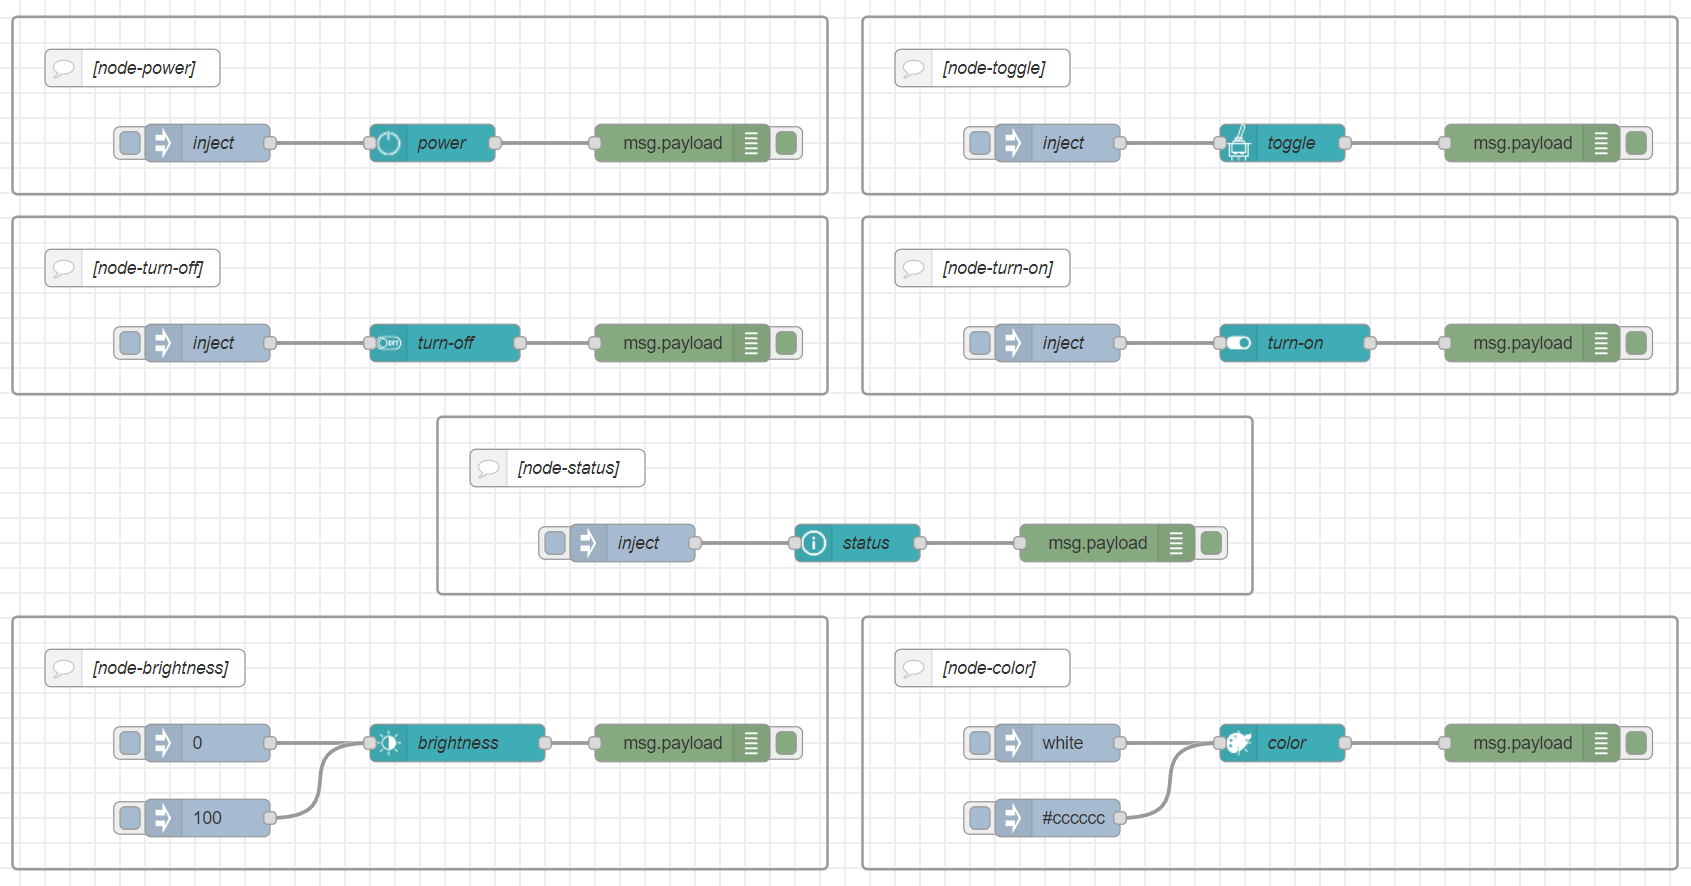
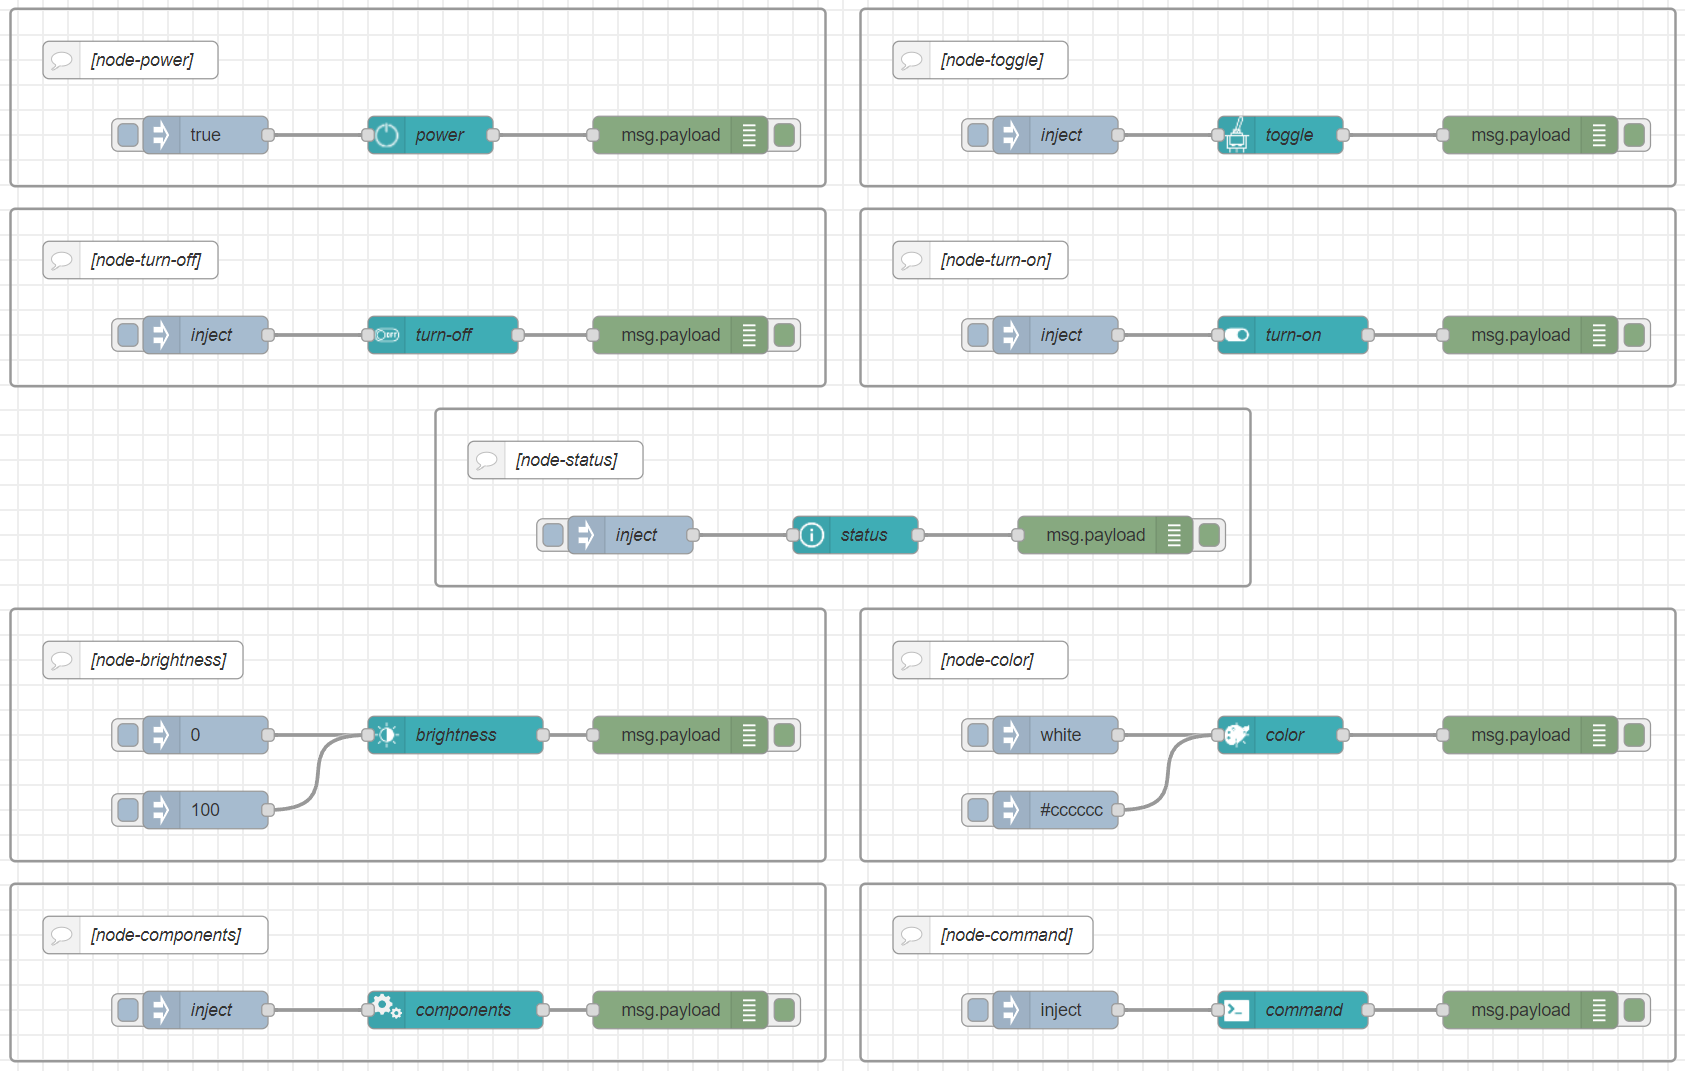
Add files via upload

Changed region(s): [[0.0, 0.0, 1.0, 1.0], [0.0, 0.6095, 0.1543, 0.64]]

diff --git a/src/nodes/tapo_klap_protocol.ts b/src/nodes/tapo_klap_protocol.ts
@@ -980,7 +980,7 @@ export class KlapProtocol extends TapoProtocol {
                 }
             })
             .catch((error: TapoError) => {
-                throw new TapoError("Handshake1 error -" + error.message, error, ErrorCode.ERROR_aPH1_bSP_HSK_ERROR, this.perform_handshake1.name)
+                throw new TapoError("Handshake1 error - " + error.message, error, ErrorCode.ERROR_aPH1_bSP_HSK_ERROR, this.perform_handshake1.name)
             });
         return seeds;
     }
@@ -1399,7 +1399,7 @@ export class PassthroughProtocol extends TapoProtocol {
                 }
             })
             .catch((error: TapoError) => {
-                throw new TapoError("Login error - " + error.message, error, ErrorCode.ERROR_aLG_bPH_HSK_ERROR, this._login_with_version.name)
+                throw new TapoError("Handshake error - " + error.message, error, ErrorCode.ERROR_aLG_bPH_HSK_ERROR, this._login_with_version.name)
             });
         return session;
     }

diff --git a/nodes/tapo_actions.html b/nodes/tapo_actions.html
@@ -26,7 +26,7 @@
             "toggle": "icon-toggle.png",
             "color": "icon-colour.png",
             "brightness": "icon-brightness.png",
-            "components": "fa-solid fa-gears",
+            "components": "icon-components.png",
             "command": "icon-command.png",
         }
         const conf = {
@@ -286,10 +286,6 @@
             <dt class="optional">errorInf <span class="property-type">object</span></dt>
             <dd> Error object with the following properties:</dd>
             <dd>   <code>{error_code: code of error, message: error description, agent: internal function failing, cause: root cause, track: tree of errors}</code></dd>
-        </dl>
-        <dl class="message-properties">
-            <dt class="optional">device <span class="property-type">object</span></dt>
-            <dd> Device handler created / used in the node. Usefull to link with another node connected to same device.</dd>
         </dl>
     </dl>
 

diff --git a/src/nodes/tapo_actions.html b/src/nodes/tapo_actions.html
@@ -26,7 +26,7 @@
             "toggle": "icon-toggle.png",
             "color": "icon-colour.png",
             "brightness": "icon-brightness.png",
-            "components": "fa-solid fa-gears",
+            "components": "icon-components.png",
             "command": "icon-command.png",
         }
         const conf = {
@@ -286,10 +286,6 @@
             <dt class="optional">errorInf <span class="property-type">object</span></dt>
             <dd> Error object with the following properties:</dd>
             <dd>   <code>{error_code: code of error, message: error description, agent: internal function failing, cause: root cause, track: tree of errors}</code></dd>
-        </dl>
-        <dl class="message-properties">
-            <dt class="optional">device <span class="property-type">object</span></dt>
-            <dd> Device handler created / used in the node. Usefull to link with another node connected to same device.</dd>
         </dl>
     </dl>
 

diff --git a/nodes/tapo_klap_protocol.js b/nodes/tapo_klap_protocol.js
@@ -844,7 +844,7 @@ class KlapProtocol extends TapoProtocol {
             }
         })
             .catch((error) => {
-            throw new TapoError("Handshake1 error -" + error.message, error, ErrorCode.ERROR_aPH1_bSP_HSK_ERROR, this.perform_handshake1.name);
+            throw new TapoError("Handshake1 error - " + error.message, error, ErrorCode.ERROR_aPH1_bSP_HSK_ERROR, this.perform_handshake1.name);
         });
         return seeds;
     }
@@ -1208,7 +1208,7 @@ class PassthroughProtocol extends TapoProtocol {
             }
         })
             .catch((error) => {
-            throw new TapoError("Login error - " + error.message, error, ErrorCode.ERROR_aLG_bPH_HSK_ERROR, this._login_with_version.name);
+            throw new TapoError("Handshake error - " + error.message, error, ErrorCode.ERROR_aLG_bPH_HSK_ERROR, this._login_with_version.name);
         });
         return session;
     }

diff --git a/nodes/tapo_actions.js b/nodes/tapo_actions.js
@@ -304,10 +304,11 @@ const nodeInit = (RED) => {
                 else {
                     // Check verbose to remove track
                     if (!config.verbose) {
-                        if (typeof (msg.payload.errorInf["track"]) != 'undefined')
-                            delete msg.payload.errorInf["track"];
+                        //    if (typeof(msg.payload.errorInf["track"]) != 'undefined') delete msg.payload.errorInf["track"];
+                        if (typeof (ret.errorInf["cause"]) != 'undefined')
+                            msg.payload.errorInf = ret.errorInf["cause"];
                     }
-                    node.status({ fill: "red", shape: "ring", text: msg.payload.errorInf.message });
+                    node.status({ fill: "red", shape: "ring", text: msg.payload.errorInf.message.split("-")[0] });
                 }
             }
             catch (error) {

diff --git a/src/nodes/tapo_actions.ts b/src/nodes/tapo_actions.ts
@@ -376,9 +376,10 @@ const nodeInit: NodeInitializer = (RED): void => {
                              
                     // Check verbose to remove track
                     if (!config.verbose) {
-                        if (typeof(msg.payload.errorInf["track"]) != 'undefined') delete msg.payload.errorInf["track"];
+                    //    if (typeof(msg.payload.errorInf["track"]) != 'undefined') delete msg.payload.errorInf["track"];
+                        if (typeof(ret.errorInf["cause"]) != 'undefined') msg.payload.errorInf = ret.errorInf["cause"];
                     }
-                    node.status({ fill: "red", shape: "ring", text: msg.payload.errorInf.message });
+                    node.status({ fill: "red", shape: "ring", text: msg.payload.errorInf.message.split("-")[0] });
                 }
 
             } catch (error) {

diff --git a/README.md b/README.md
@@ -52,6 +52,21 @@ Unofficial node-RED node for connecting to TP-Link Tapo devices with new interfa
     This node command provides the ability to get the device infomation of tapo smart plugs. Models that can monitor energy acquire energy information.
 
     `"output: msg.payload.tapoDeviceInfo, msg.payload?.tapoEnergyUsage(P110 only)"` will provide the device information and usage (if device can measure energy).
+    
+- **components**
+
+    ![node-red-contrib-tapo-new-api](figs/node-components.png)
+
+    This node command provides the ability to get the device components information.
+
+- **command**
+
+    ![node-red-contrib-tapo-new-api](figs/node-command.png)
+
+    This node command provides the ability to set a customized request to the device by input `"msg.payload"` (TapoRequest object):
+
+    `{"method": string, "params": {"key": value, ...}}` should be provided as valid request. 
+
 
 ## Node configuration by message (`msg`)
 

diff --git a/CHANGELOG.md b/CHANGELOG.md
@@ -6,7 +6,7 @@ The format is based on [Keep a Changelog](http://keepachangelog.com/)
 and this project adheres to [Semantic Versioning](http://semver.org/).
  
  
-## [0.4.6] - 2024-01-23
+## [0.4.7] - 2024-01-23
   
 Minor changes on README. CHANGELOG also added. No functional changes
  
